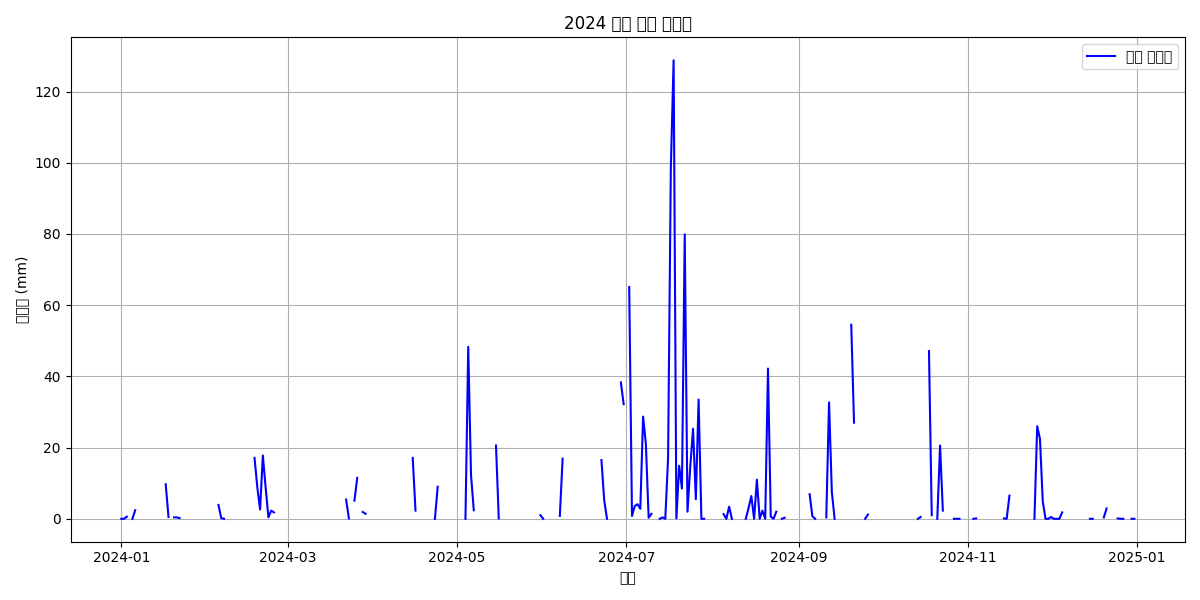
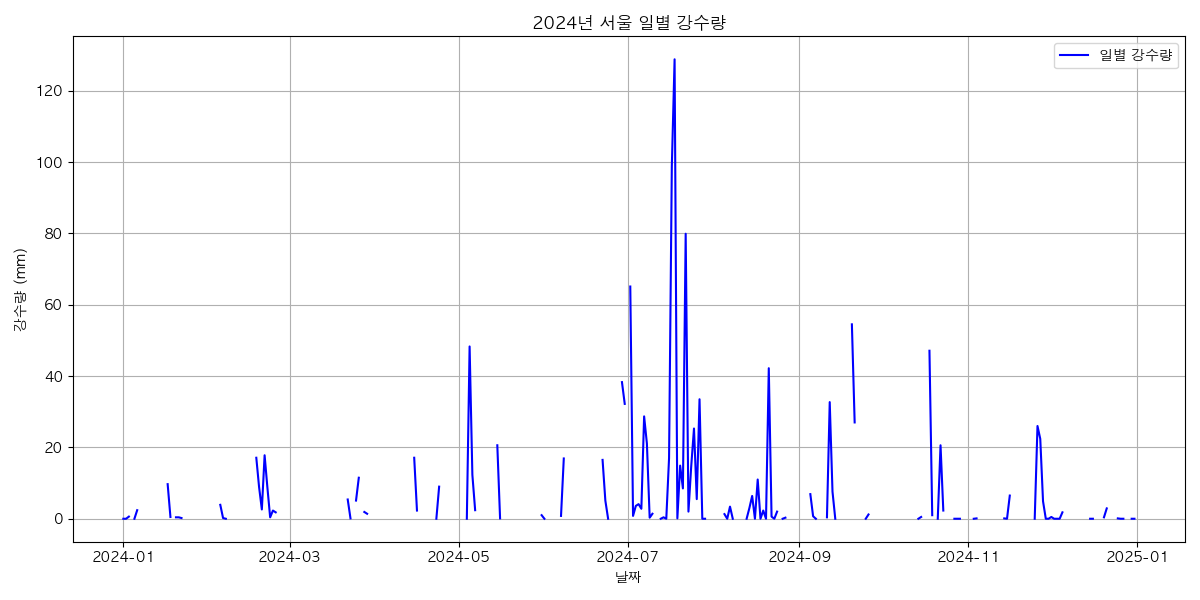
feat :: 시각화 추가

diff --git a/scripts/rainfall_analysis.py b/scripts/rainfall_analysis.py
@@ -1,4 +1,7 @@
+import matplotlib
 import pandas as pd
+import matplotlib.pyplot as plt
+import os
 
 def load_rainfall_data(filepath: str) -> pd.DataFrame:
     """CSV 파일에서 강수량 데이터 불러오기"""
@@ -17,7 +20,6 @@ def summarize_rainfall(df: pd.DataFrame):
         146: '광주',
         133: '대전',
         184: '제주'
-        # 필요 시 더 추가
     }
 
     station_code = int(df['지점'].iloc[0])
@@ -32,3 +34,36 @@ def summarize_rainfall(df: pd.DataFrame):
     print(f"총 일수: {total_days}일")
     print(f"비 안 온 날: {zero_rain_days}일 ({zero_rain_days / total_days:.1%})")
     print(f"최대 강수량: {max_rain}mm on {max_day}")
+
+def visualize_rainfall(df: pd.DataFrame, output_path: str):
+    station_map = {
+        108: '서울',
+        159: '부산',
+        143: '대구',
+        131: '인천',
+        146: '광주',
+        133: '대전',
+        184: '제주'
+    }
+    matplotlib.rc('font', family='AppleGothic')
+    matplotlib.rcParams['axes.unicode_minus'] = False
+
+    station_code = int(df['지점'].iloc[0])
+    region_name = station_map.get(station_code, f"알 수 없는 지역 (코드: {station_code})")
+
+    # output 폴더 생성
+    os.makedirs(os.path.dirname(output_path), exist_ok=True)
+
+    # 시각화
+    plt.figure(figsize=(12, 6))
+    plt.plot(df['날짜'], df['강수량(mm)'], label='일별 강수량', color='blue')
+    plt.title(f'2024년 {region_name} 일별 강수량')
+    plt.xlabel('날짜')
+    plt.ylabel('강수량 (mm)')
+    plt.grid(True)
+    plt.legend()
+    plt.tight_layout()
+
+    # 저장
+    plt.savefig(output_path)
+    print(f"✅ 그래프 저장됨: {os.path.abspath(output_path)}")

diff --git a/main.py b/main.py
@@ -1,4 +1,5 @@
-from scripts.rainfall_analysis import load_rainfall_data, summarize_rainfall
+from scripts.rainfall_analysis import load_rainfall_data, summarize_rainfall, visualize_rainfall
+
 
 def main():
     filepath = "data/precipitation_seoul_2024.csv"
@@ -6,6 +7,7 @@ def main():
 
     df = load_rainfall_data(filepath)
     summarize_rainfall(df)
+    visualize_rainfall(df, output_path)
 
 if __name__ == "__main__":
     main()
